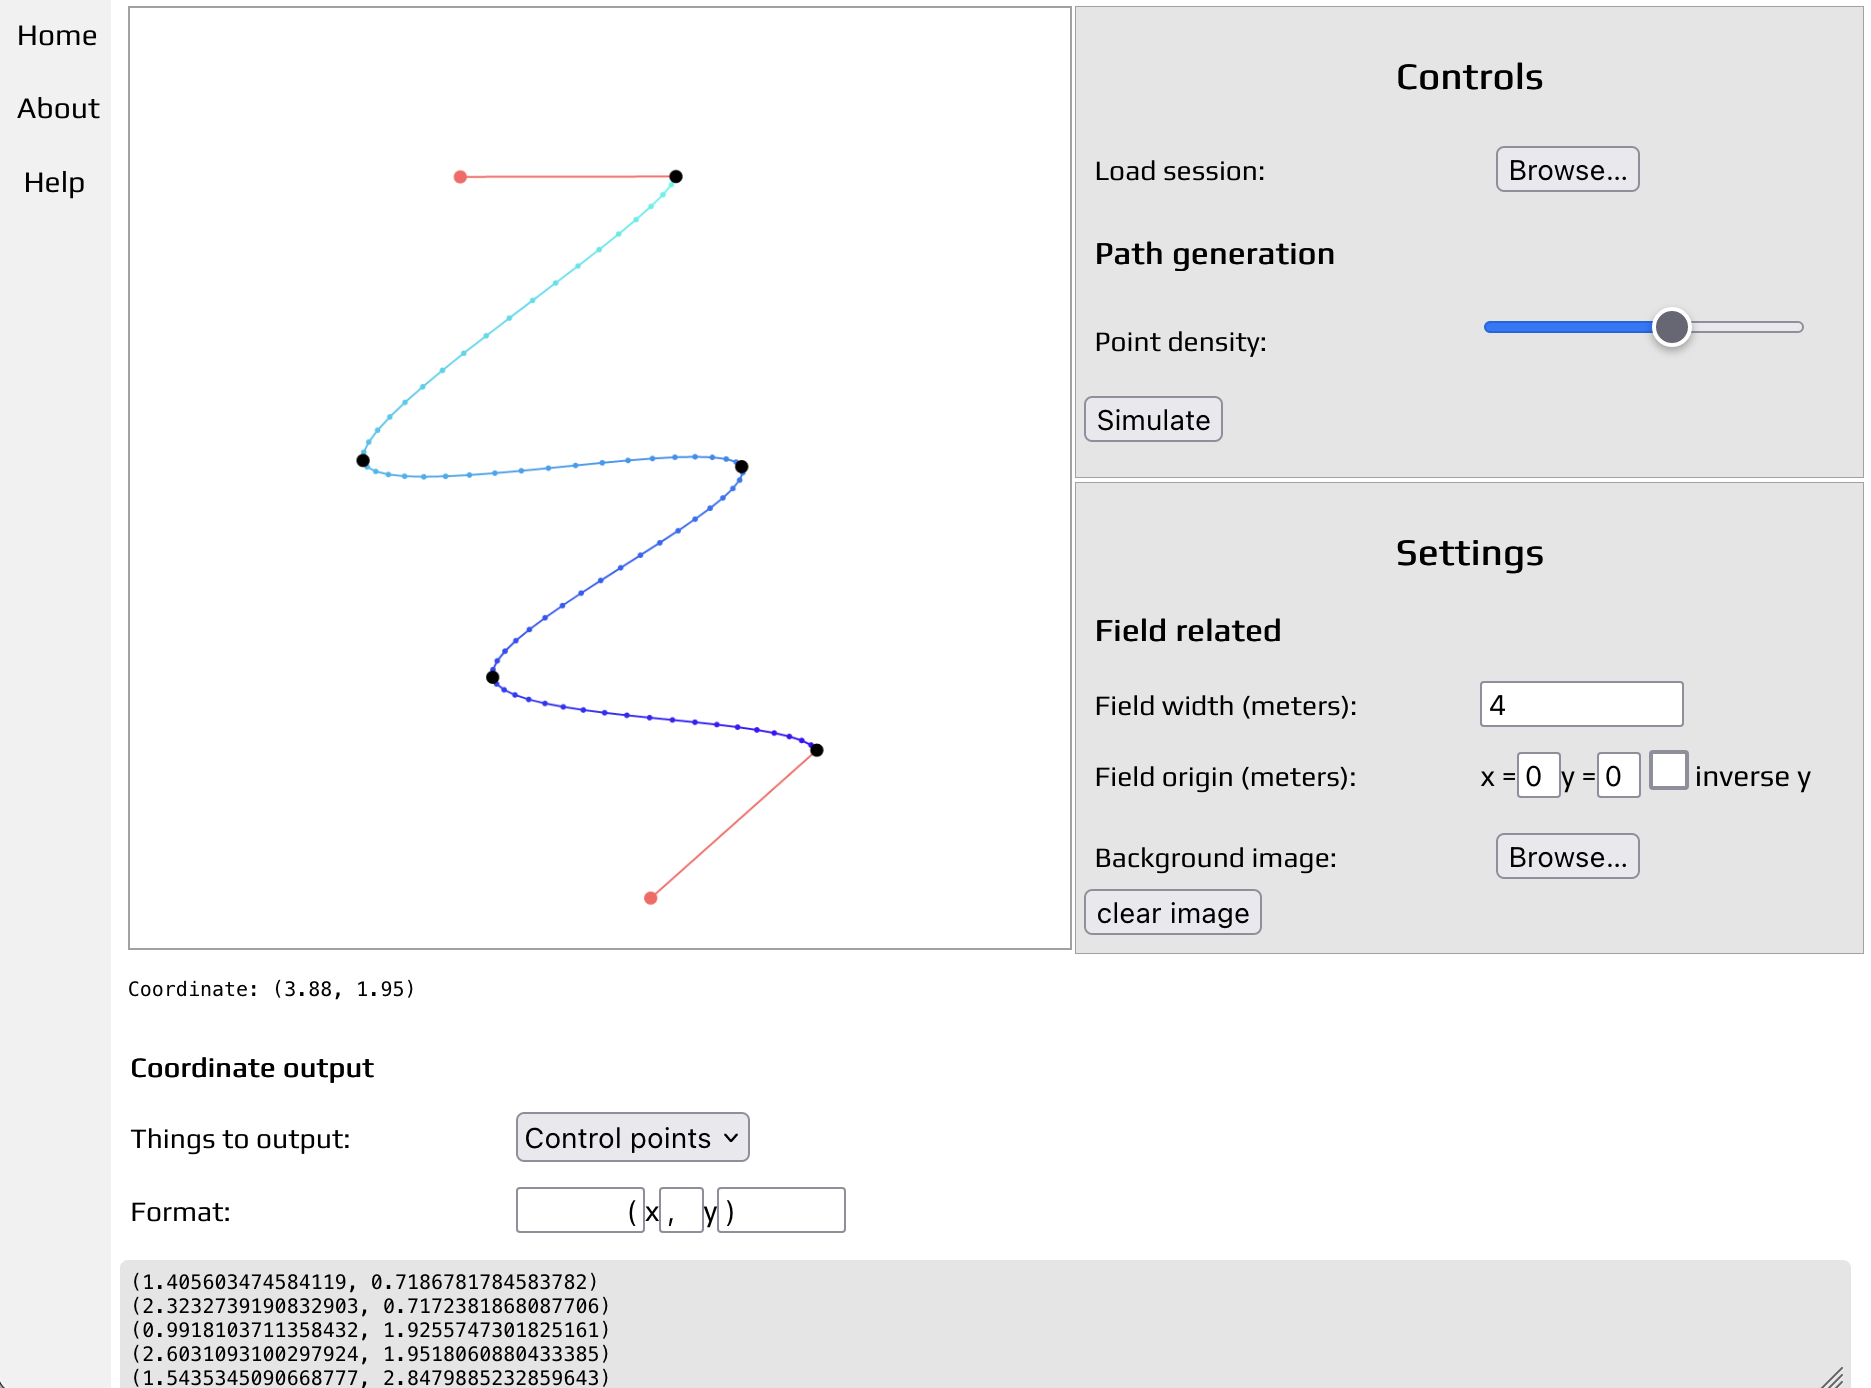
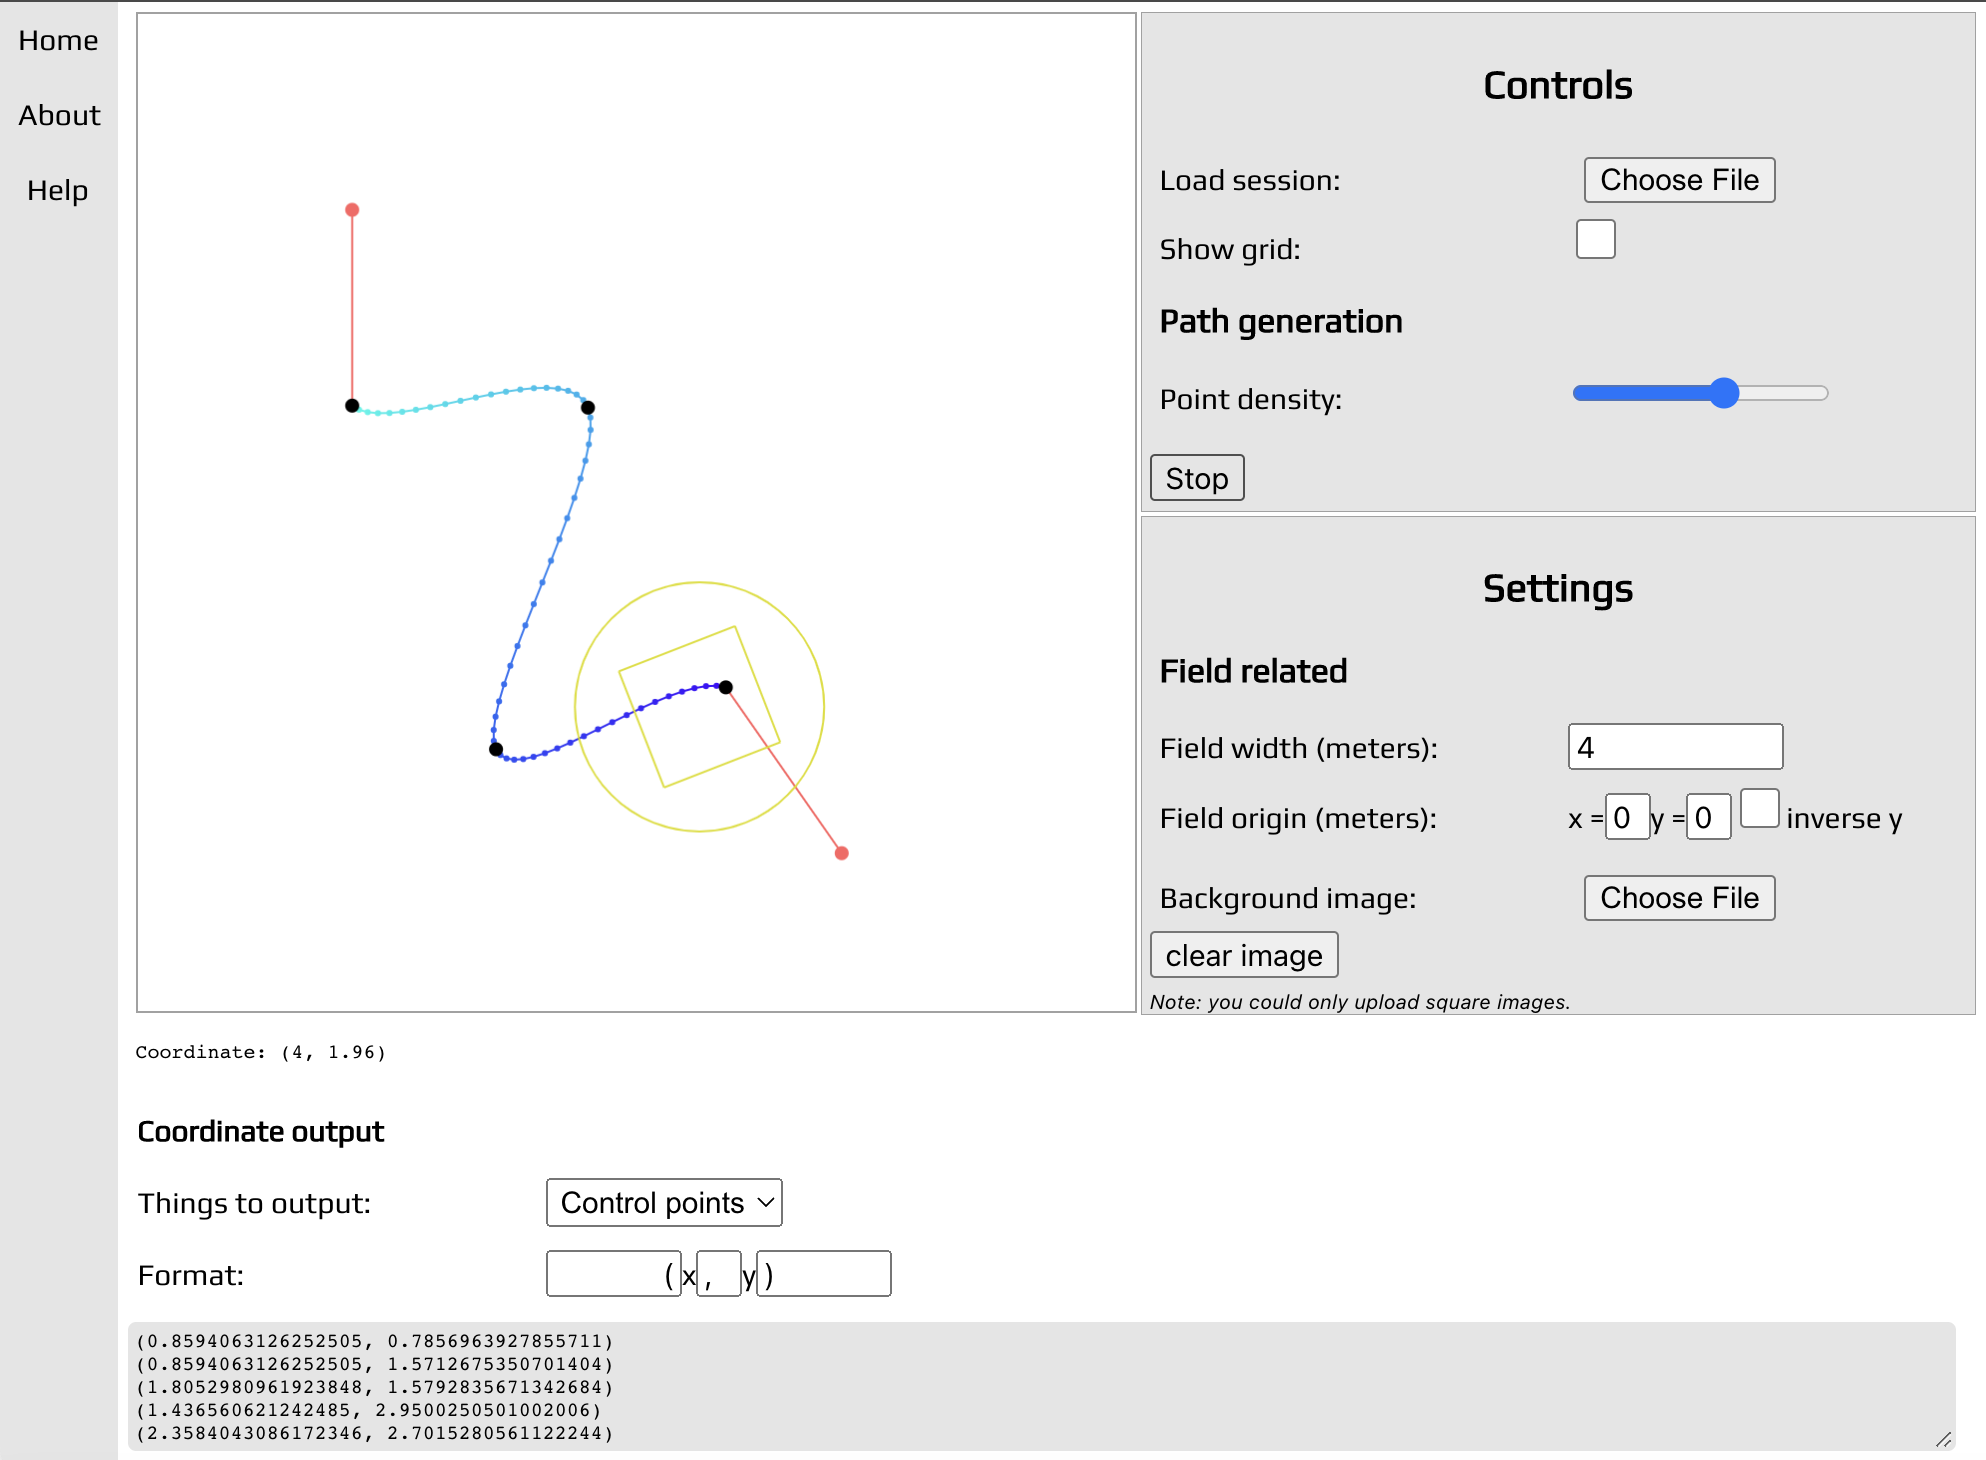
update interface and algorithms

diff --git a/src/objects/drawable_objects/grid.js b/src/objects/drawable_objects/grid.js
@@ -1,0 +1,72 @@
+import DrawableObject from "./drawable_object";
+import Utils from "../../utils";
+
+class Grid extends DrawableObject {
+    constructor() {
+        super();
+        this.hidden = true;
+    }
+
+    render(ctx, settings) {
+        if (this.hidden) {
+            return;
+        }
+        const x_origin_input = document.getElementById("x_origin_input");
+        const y_origin_input = document.getElementById("y_origin_input");
+        const y_inverse_input = document.getElementById("y_inverse_input");
+        const division = Utils.meters_to_pixel(1, settings.fieldwidth, settings.canvaswidth);
+        var xoffset = Utils.meters_to_pixel(+x_origin_input.value, settings.fieldwidth, settings.canvaswidth);
+        var yoffset = Utils.meters_to_pixel(+y_origin_input.value, settings.fieldwidth, settings.canvaswidth);
+        var prev_lines_x = xoffset / division;
+        var prev_lines_y = yoffset / division;
+
+        // draw lines before the origin
+        ctx.strokeStyle = "rgba(0, 0, 0, 0.5)";
+        for (let i = 1; i < prev_lines_x; i++) {
+            ctx.beginPath();
+            ctx.moveTo(xoffset - i * division , 0);
+            ctx.lineTo(xoffset - i * division , settings.canvaswidth);
+            ctx.stroke();
+            console.log(xoffset - i * division);
+        }
+        for (let i = 1; i < prev_lines_y; i++) {
+            ctx.beginPath();
+            ctx.moveTo(0 , yoffset - i * division);
+            ctx.lineTo(settings.canvaswidth, yoffset - i * division);
+            ctx.stroke();
+        }
+
+        // draw lines after the origin
+        for (let x = xoffset; x < settings.canvaswidth; x += division) {
+            ctx.beginPath();
+            ctx.moveTo(x, 0);
+            ctx.lineTo(x, settings.canvaswidth);
+            ctx.stroke();
+        }
+        for (let y = yoffset; y < settings.canvaswidth; y += division) {
+            ctx.beginPath();
+            ctx.moveTo(0, y);
+            ctx.lineTo(settings.canvaswidth, y);
+            ctx.stroke();
+        }
+
+        // draw origin
+        ctx.lineWidth = 4;
+        ctx.beginPath();
+        ctx.moveTo(xoffset, yoffset);
+        ctx.lineTo(xoffset + division, yoffset);
+        ctx.strokeStyle = "rgba(0, 0, 255, 0.5)";
+        ctx.stroke();
+
+        const direction = y_inverse_input.checked ? -1 : 1;
+        ctx.beginPath();
+        ctx.moveTo(xoffset, yoffset);
+        ctx.lineTo(xoffset, yoffset + division * direction);
+        ctx.strokeStyle = "rgba(255, 0, 0, 0.5)";
+        ctx.stroke();
+
+        ctx.lineWidth = 2;
+    }
+}
+
+export default Grid;

diff --git a/src/objects/drawable_objects/robot.js b/src/objects/drawable_objects/robot.js
@@ -5,8 +5,11 @@ import FieldObjects from "../field_objects.js";
 import SimulationManager from "../simulation_manager.js";
 
 class Robot {
-    constructor({x, y, theta}, {width, length, color}, {max_velocity, max_acceleration}, {kPT, kIT, kDT, kPR, kIR, kDR}, {lookahead_radius, pursuit_mode}) {
+    constructor({x, y, theta}, {width, length, color}, {max_velocity, max_acceleration, max_jerk}, {kPT, kIT, kDT, kPR, kIR, kDR}, {lookahead_radius, pursuit_mode}) {
         this.position = [x, y];
+        this.velocity = [0, 0];
+        this.allowed_acceleration = [0, 0];
+        this.max_jerk = max_jerk;
         this.theta = theta * Math.PI / 180;
         this.width = width;
         this.box = new Box(x, y, theta, width, length, color);
@@ -15,7 +18,6 @@ class Robot {
         this.pursuit.set_mode(pursuit_mode);
         this.max_velocity = max_velocity;
         this.max_acceleration = max_acceleration;
-        this.velocity = [0, 0];
     }
 
     set_color(color) {
@@ -30,11 +32,15 @@ class Robot {
         velocity[0] = Math.max(Math.min(velocity[0], this.max_velocity), -this.max_velocity);
         velocity[1] = Math.max(Math.min(velocity[1], this.max_velocity), -this.max_velocity);
 
+        var last_allowed_acceleration = this.allowed_acceleration;
         var last_velocity = this.velocity;
+
         for (let i = 0; i < velocity.length; i++) {
-            this.velocity[i] = last_velocity[i] + Math.min(this.max_acceleration * dt, Math.max(-this.max_acceleration*dt, velocity[i]-last_velocity[i]));
+            const desired_accel = velocity[i]-last_velocity[i] < 0 ? -this.max_acceleration : velocity[i]-last_velocity[i] === 0 ? 0 : this.max_acceleration;
+            this.allowed_acceleration[i] = last_allowed_acceleration[i] + Math.min(this.max_jerk * dt, Math.max(-this.max_jerk*dt, desired_accel-last_allowed_acceleration[i]));
+            this.velocity[i] = last_velocity[i] + Math.max(Math.min(velocity[i]-last_velocity[i], Math.abs(this.allowed_acceleration[i] * dt)), -Math.abs(this.allowed_acceleration[i] * dt));
         }
-        // console.log(this.velocity);
+
         this.position = [this.position[0] + (this.velocity[0]+this.velocity[1])/2*dt * Math.sin(this.theta), 
                          this.position[1] - (this.velocity[0]+this.velocity[1])/2*dt * Math.cos(this.theta)];
         this.theta += Math.atan((this.velocity[0]-this.velocity[1])/this.width*dt);

diff --git a/src/algorithms/pure_pursuit.js b/src/algorithms/pure_pursuit.js
@@ -8,6 +8,9 @@ class PurePursuit {
         this.mode = PurePursuit.pursuit_mode.pid;
         this.lookahead_radius = lookahead_radius;
         this.trackwidth = trackwidth;
+        this.max_progress_jump = 1;
+
+        this.progress = 0;
         // translational PID constants
         this.kPT = pid_constants.kPT;
         this.kIT = pid_constants.kIT;
@@ -31,6 +34,7 @@ class PurePursuit {
      * Reset stored errors
     */
     reset() {
+        this.progress = 0;
         this.prev_error_displacement = 0;
         this.prev_error_rotation = 0;
 
@@ -85,6 +89,9 @@ class PurePursuit {
         if (position.distance_to(this.path[this.path.length - 1]) < this.lookahead_radius) {
             return this.path[this.path.length - 1];
         }
+
+        this.progress = Math.min(Math.max(this.progress, this.closest(position)), Math.min(this.progress + this.max_progress_jump, this.path.length-1));
+        
         for (let i = 0; i < this.path.length; i++) {
             var current_point = this.path[i];
             if (i + 1 < this.path.length) {
@@ -92,9 +99,10 @@ class PurePursuit {
                 const current_dist = position.distance_to(current_point);
                 const next_dist = position.distance_to(next_point);
 
-                if (current_dist < this.lookahead_radius &&
-                    next_dist > this.lookahead_radius &&
-                    this.closest(position) <= i) {
+                if (current_dist <= this.lookahead_radius &&
+                    next_dist >= this.lookahead_radius &&
+                    this.progress <= i) {
+                    
                     // interpolation
                     var mid_point = new Waypoint(current_point.get_x(), current_point.get_y(), 0, 
                     (current_point.get_linvel() + next_point.get_linvel())/2, 0);
@@ -119,7 +127,7 @@ class PurePursuit {
                 }
             }
         }
-        return this.path[this.closest(position)];
+        return this.path[this.progress];
     }
 
     /**

diff --git a/src/objects/session.js b/src/objects/session.js
@@ -44,7 +44,8 @@ class Session {
         const robot_length_input = document.getElementById("robot_length_input");
         const max_velocity_input = document.getElementById("max_velocity_input");
         const max_accel_input = document.getElementById("max_accel_input");
-    
+        const max_jerk_input = document.getElementById("max_jerk_input");
+
         // pure pursuit settings elements
         const lookahead_radius_input = document.getElementById("lookahead_radius_input");
         const kPT_input = document.getElementById("kPT_input");
@@ -82,6 +83,7 @@ class Session {
                     robot_length: robot_length_input.value,
                     max_velocity: max_velocity_input.value,
                     max_acceleration: max_accel_input.value,
+                    max_jerk: max_jerk_input.value,
                 },
                 pid_constants: {
                     kPT: kPT_input.value,
@@ -129,6 +131,7 @@ class Session {
         const robot_length_input = document.getElementById("robot_length_input");
         const max_velocity_input = document.getElementById("max_velocity_input");
         const max_accel_input = document.getElementById("max_accel_input");
+        const max_jerk_input = document.getElementById("max_jerk_input");
     
         // pure pursuit settings elements
         const lookahead_radius_input = document.getElementById("lookahead_radius_input");
@@ -165,7 +168,8 @@ class Session {
             robot_length_input.value = config.settings.robot_settings.robot_length;
             max_velocity_input.value = config.settings.robot_settings.max_velocity;
             max_accel_input.value = config.settings.robot_settings.max_acceleration;
-    
+            max_jerk_input.value = config.settings.robot_settings.max_jerk;
+
             // pure pursuit
             lookahead_radius_input.value = config.settings.pure_pursuit.lookahead_radius;
             kPT_input.value = config.settings.pid_constants.kPT;

diff --git a/src/objects/simulation_manager.js b/src/objects/simulation_manager.js
@@ -19,6 +19,7 @@ class SimulationManager {
     static robot_performance = {
         max_velocity: 0,
         max_acceleration: 0,
+        max_jerk: 0,
     }
     static pid_constants = {
         kPT: 300,
@@ -45,6 +46,7 @@ class SimulationManager {
         const robot_length_input = document.getElementById("robot_length_input");
         const max_velocity_input = document.getElementById("max_velocity_input");
         const max_accel_input = document.getElementById("max_accel_input");
+        const max_jerk_input = document.getElementById("max_jerk_input");
     
         const lookahead_radius_input = document.getElementById("lookahead_radius_input");
         const kPT_input = document.getElementById("kPT_input");
@@ -63,6 +65,7 @@ class SimulationManager {
         SimulationManager.robot_performance = {
             max_velocity: Utils.meters_to_pixel(+max_velocity_input.value, +field_width_input.value, canvas.width),
             max_acceleration: Utils.meters_to_pixel(+max_accel_input.value, +field_width_input.value, canvas.width),
+            max_jerk: Utils.meters_to_pixel(+max_jerk_input.value, +field_width_input.value, canvas.width),
         }
     
         SimulationManager.pid_constants = {

diff --git a/public/index.html b/public/index.html
@@ -3,16 +3,6 @@
 
 <head>
   <meta charset="utf-8" />
-  <link rel="icon" href="%PUBLIC_URL%/favicon.ico" />
-  <meta name="viewport" content="width=device-width, initial-scale=1" />
-  <meta name="theme-color" content="#000000" />
-  <meta name="description" content="Web site created using create-react-app" />
-  <link rel="apple-touch-icon" sizes="180x180" href="/apple-touch-icon.png">
-  <link rel="icon" type="image/png" sizes="32x32" href="/favicon-32x32.png">
-  <link rel="icon" type="image/png" sizes="16x16" href="/favicon-16x16.png">
-  <link rel="mask-icon" href="/safari-pinned-tab.svg" color="#5bbad5">
-  <meta name="msapplication-TileColor" content="#00aba9">
-  <meta name="theme-color" content="#ffffff">
   <!--
       manifest.json provides metadata used when your web app is installed on a
       user's mobile device or desktop. See https://developers.google.com/web/fundamentals/web-app-manifest/
@@ -30,7 +20,6 @@
   <link rel="preconnect" href="https://fonts.googleapis.com">
   <link rel="preconnect" href="https://fonts.gstatic.com" crossorigin>
   <link href="https://fonts.googleapis.com/css2?family=Play&display=swap" rel="stylesheet">
-  <title>Pathtracker Online</title>
 </head>
 
 <body>

diff --git a/src/components/ControlsTab.js b/src/components/ControlsTab.js
@@ -1,9 +1,9 @@
 import Session from "../objects/session"
 import FieldObjects from "../objects/field_objects";
 import SimulationManager from "../objects/simulation_manager";
+import { handle_showgrid } from "../objects/event_handler";
 
 function update_path(e) {
-    console.log(e.target.value);
     FieldObjects.path.update();
 }
 
@@ -16,6 +16,8 @@ export default function ControlsTab() {
                     <label className="option_text">Load session: </label>
                     <input type="file" id="sess_input" accept="application/JSON" className="file_input" onChange={Session.load_session}></input>
                     <br />
+                    <label className="option_text">Show grid: </label>
+                    <input type="checkbox" id="show_grid_input" className="option_input_checkbox" onChange={handle_showgrid}></input>
                     <p className="option_title"><b>Path generation</b></p>
                     <label className="option_text">Point density: </label>
                     <input type="range" min="5" max="30" id="point_density_input" defaultValue={20} onInput={update_path} onChange={update_path}/>

diff --git a/src/objects/field_objects.js b/src/objects/field_objects.js
@@ -1,15 +1,18 @@
 import BackgroundImg from "./drawable_objects/background_img";
+import Grid from "./drawable_objects/grid";
 import Path from "./drawable_objects/path";
 
 class FieldObjects {
     static background = new BackgroundImg();
+    static grid = new Grid();
     static path = new Path();
-    static objects = [FieldObjects.background, FieldObjects.path];
-    
+    static objects = [FieldObjects.background, FieldObjects.grid, FieldObjects.path];
+
     static reset() {
         FieldObjects.background = new BackgroundImg();
+        FieldObjects.grid = new Grid();
         FieldObjects.path = new Path();
-        FieldObjects.objects = [FieldObjects.background, FieldObjects.path];
+        FieldObjects.objects = [FieldObjects.background, FieldObjects.grid, FieldObjects.path];
     }
 }
 

diff --git a/src/components/Stage.js b/src/components/Stage.js
@@ -24,6 +24,8 @@ const Stage = props => {
         let frameCount = 0;
         let animationFrameId;
 
+        const field_width_input = document.getElementById("field_width");
+        
         // color related settings elements
         const start_color_input = document.getElementById("start_color_input");
         const end_color_input = document.getElementById("end_color_input");
@@ -43,6 +45,9 @@ const Stage = props => {
                 then = performance.now();
                 frameCount++
                 settings = {
+                    
+                    fieldwidth: field_width_input.value,
+                    canvaswidth: canvas.width,
 
                     start_color: start_color_input.value,
                     end_color: end_color_input.value,

diff --git a/src/components/FieldSettings.js b/src/components/FieldSettings.js
@@ -16,10 +16,10 @@ export default function FieldSettings() {
         <input type="checkbox" id="y_inverse_input" className="option_input_checkbox" onChange={OutputManager.update_output}></input>
         <p style={{ display: "inline-block" }}>inverse y</p>
         <br />
-
         <label className="option_text">Background image: </label>
         <input type="file" id="img_input" name="img_input" accept="image/*" className="file_input" onChange={set_background_img}></input>
         <button className="option_input" id="clear_img" style={{ width: "auto" }} onClick={clear_background_img}>clear image</button>
         <br />
+        <i>Note: you could only upload square images.</i>
     </>
 }

diff --git a/src/components/RobotSettings.js b/src/components/RobotSettings.js
@@ -16,6 +16,10 @@ export default function RobotSettings() {
         <label className="option_text">Max acceleration (m/s^2): </label>
         <input type="text" id="max_accel_input" className="option_input" defaultValue={10}></input>
         <br />
+
+        <label className="option_text">Max jerk (m/s^3): </label>
+        <input type="text" id="max_jerk_input" className="option_input" defaultValue={200}></input>
+        <br />
         <br />
 
         <i>Note: the following constants needs to be tuned on the actual robot,

diff --git a/src/objects/event_handler.js b/src/objects/event_handler.js
@@ -150,6 +150,10 @@ function handle_keydown(e) {
     }
 }
 
+function handle_showgrid() {
+    FieldObjects.grid.hidden = !FieldObjects.grid.hidden;
+} 
+
 /**
  * Set background image
  * 
@@ -179,6 +183,7 @@ export {
     handle_mousemove,
     handle_ctxmenu,
     handle_keydown,
+    handle_showgrid,
     set_background_img,
     clear_background_img
 }
